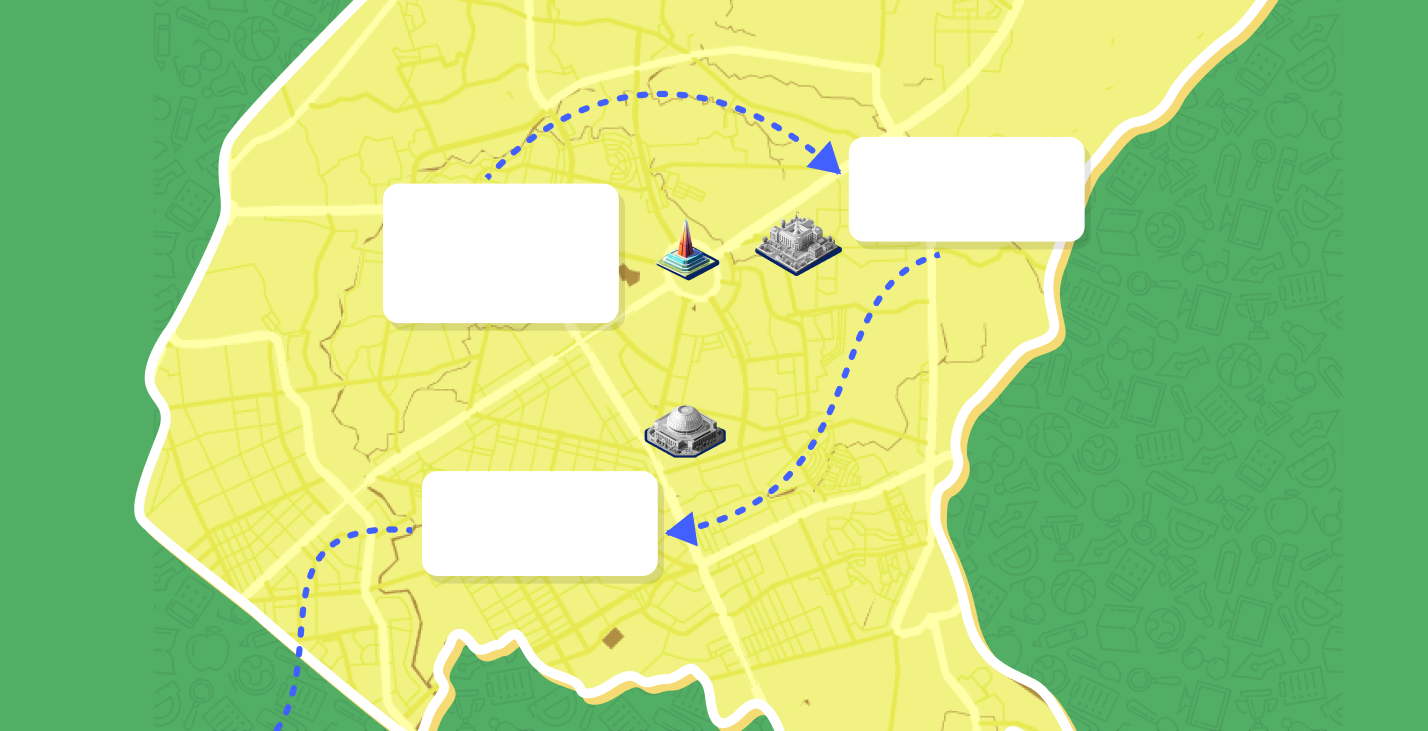
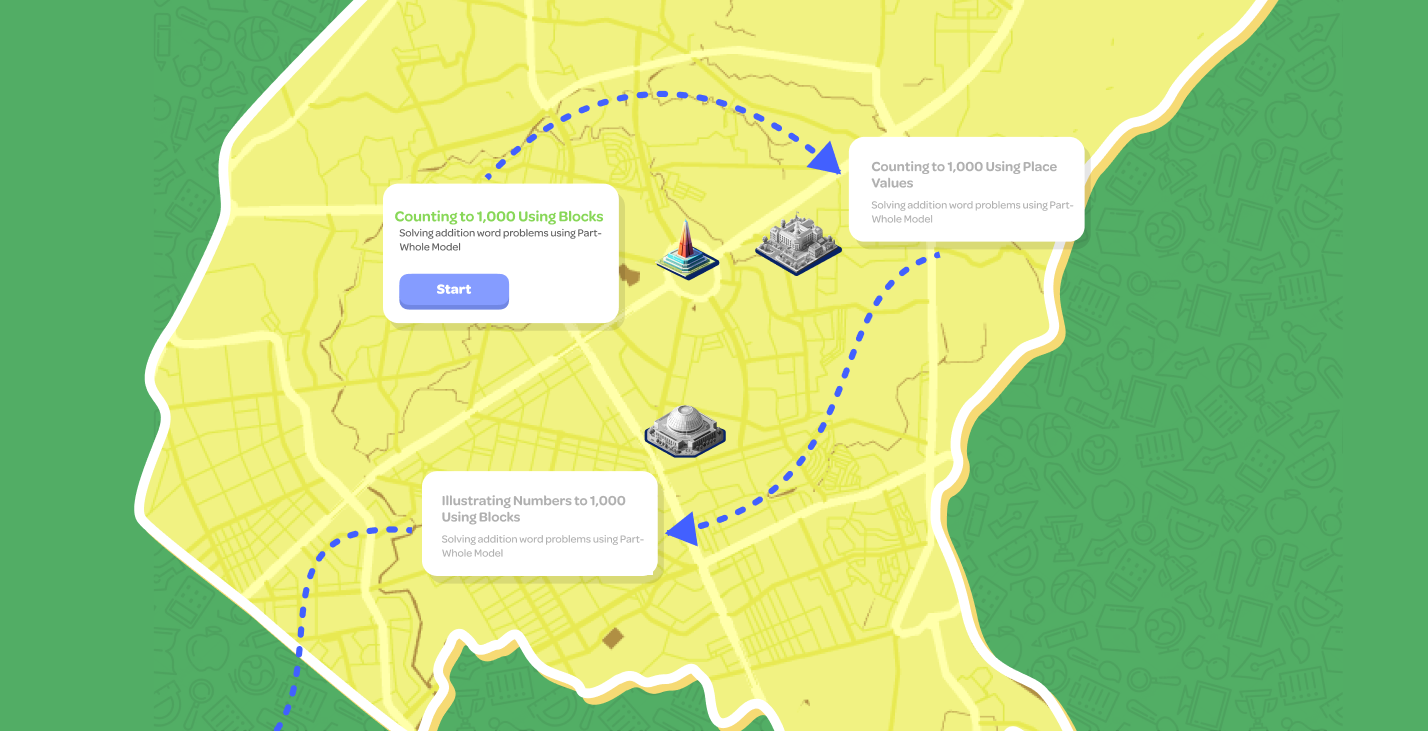
add: test

Changed region(s): [[0.2773, 0.2709, 0.4314, 0.4213], [0.3081, 0.6621, 0.4314, 0.7825], [0.6162, 0.2107, 0.7395, 0.301]]

diff --git a/mathayog/learning/index.html b/mathayog/learning/index.html
@@ -55,13 +55,11 @@
                                         class="learning-muning-bubble-text-content"
                                         id="bubble-content"
                                     >
-                                        <p>
-                                            In each landmark, we will learn a
-                                            math lesson.
-                                        </p>
-                                        <!-- Do activities, and solve math problems. -->
                                     </div>
-                                    <div class="learning-btn-section">
+                                    <div
+                                        class="learning-btn-section"
+                                        id="learning-btn-section"
+                                    >
                                         <button class="learning-btn">
                                             Next
                                         </button>
@@ -94,4 +92,45 @@
             </main>
         </div>
     </body>
+    <script>
+        // Define an array of text content for each part
+        const bubbleContentArray = [
+            "<p>Here we are! This is Quezon City!</p>",
+            "<p>In each landmark, we will learn a math lesson.</p>",
+            "<p>Do activities, and solve math problems.</p>",
+            "<p>Every time we finish these Math tasks,we earn gold coins!</p>",
+        ];
+
+        // Initialize a variable to keep track of the current text index
+        let currentContentIndex = 0;
+
+        // Get references to elements
+        const bubbleContent = document.getElementById("bubble-content");
+        const nextButton = document.getElementById("learning-btn-section");
+
+        // Function to update the text content
+        function updateBubbleContent() {
+            if (currentContentIndex < bubbleContentArray.length) {
+                bubbleContent.innerHTML =
+                    bubbleContentArray[currentContentIndex];
+                currentContentIndex++;
+            } else {
+                // You've reached the end of the text content
+                bubbleContent.innerHTML =
+                    "<p>Let’s go to QC Circle first!</p>";
+                nextButton.innerHTML =
+                    '';
+            }
+        }
+
+        function navigateToNextPage() {
+            // Replace the URL with the desired URL
+            window.location.href = "../courses/";
+        }
+        // Add a click event listener to the button
+        nextButton.addEventListener("click", updateBubbleContent);
+
+        // Initial update of text content
+        updateBubbleContent();
+    </script>
 </html>

diff --git a/mathayog/assets/css/learning-page.css b/mathayog/assets/css/learning-page.css
@@ -164,8 +164,8 @@
     flex-direction: column;
     align-items: center;
     justify-content: center;
-    min-width: min-content;
-    max-width: 90%;
+    width: 90%;
+    
     height: 100%;
 
     z-index: 5;
@@ -178,7 +178,7 @@
     font-size: 2.5rem;
 
     word-spacing: 0.25rem;
-    line-height: 120%;
+    line-height: 125%;
 }
 
 .learning-btn-section {
@@ -200,7 +200,7 @@
     width: 30%;
     border-color: transparent;
     background-color: #859CFF;
-    border-radius: 20px;
+    border-radius: 13px;
     border-bottom: 8px solid #7187E4;
   
     margin-top: 1vh;
